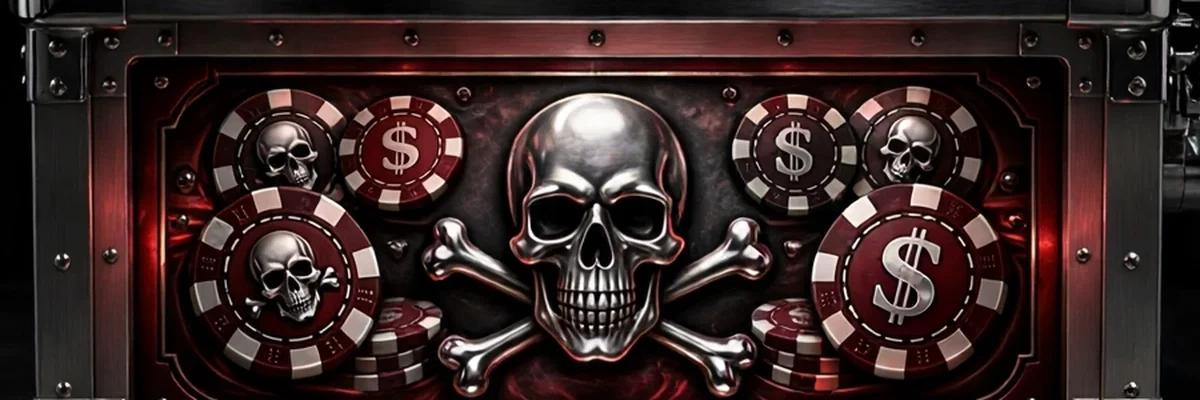
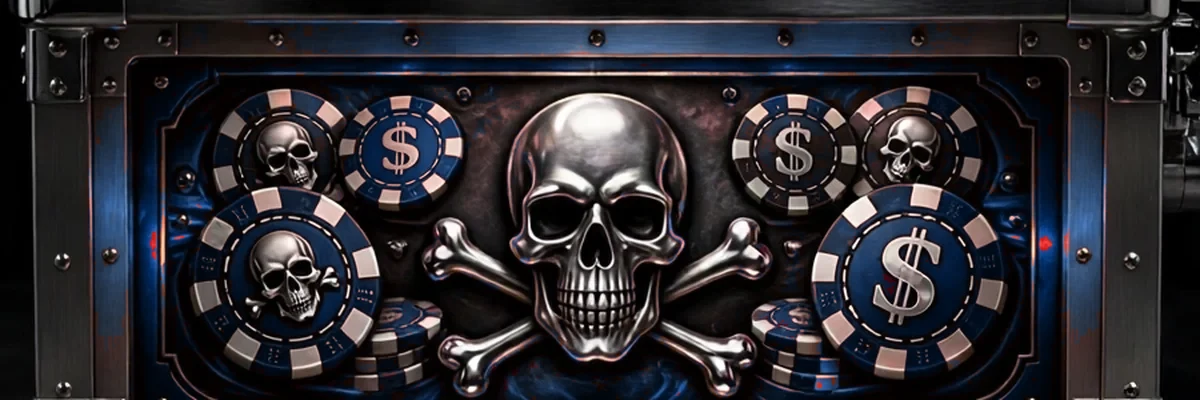
Poker Luxe: realism cabinet pass (NO GOLD — chrome SPIN ring, blue max-bet, blue chips in marquee+belly art, coin tray fully in frame) + SKULL VAULT face lift to pick board #2 (photoreal riveted-steel door wall cropped from the board itself, LED dot-matrix readout panel, board chip/skull compartment

diff --git a/test-bench/hustle-city-slots-luxe/style.css b/test-bench/hustle-city-slots-luxe/style.css
@@ -1,8 +1,8 @@
 /* Hustle City Slots — Poker Luxe · presentation (generated-art build).
    House look: chrome/silver + electric blue, blue room/cabinet treatment
    (Joshua's order 2026-11-21: blue background, not black — the screen pops
-   against it), with gold luxury accents for the poker-room theme and the
-   Bonus Wheel. (c) 2026 J-Dawgs Industries. */
+   against it). Cabinet #14 Riveted Steelworks: red accents, RED LED
+   readouts, NO GOLD anywhere (Joshua's law). (c) 2026 J-Dawgs Industries. */
 :root {
   --blue: #2e9bff;
   --blue-hot: #6fc2ff;
@@ -104,8 +104,8 @@ body {
   font-size: 13px;
   letter-spacing: .55em;
   text-indent: .55em;
-  color: var(--gold);
-  text-shadow: 0 0 9px rgba(232, 194, 104, .65);
+  color: var(--blue-hot);
+  text-shadow: 0 0 9px rgba(46, 155, 255, .65);
   line-height: 1;
 }
 .marquee-line1 {
@@ -231,7 +231,7 @@ body {
   content: "";
   position: absolute; inset: 0;
   border-radius: 4px;
-  box-shadow: inset 0 0 0 3px var(--gold), inset 0 0 26px rgba(232, 194, 104, .8), 0 0 20px rgba(232, 194, 104, .9);
+  box-shadow: inset 0 0 0 3px #ff3540, inset 0 0 26px rgba(255, 42, 51, .55), 0 0 20px rgba(255, 42, 51, .8);
   animation: winPulse .4s ease-in-out infinite alternate;
 }
 /* motion blur while a reel is at speed (class toggled by the spin physics) */
@@ -391,7 +391,7 @@ body {
   white-space: nowrap;
   overflow: hidden;
 }
-.maxbet-line b { color: var(--gold); }
+.maxbet-line b { color: var(--blue-hot); text-shadow: 0 0 8px rgba(46, 155, 255, .75), 0 1px 2px #000; }
 
 .controls {
   margin-top: 10px;
@@ -1127,7 +1127,8 @@ body {
 /* cabinet base — speaker grilles flanking the coin tray */
 .cab-base {
   margin-top: 10px;
-  height: 62px;
+  height: 88px; /* taller base strip (2026-11-21): the real coin tray reads
+    fully in frame instead of a cropped sliver */
   display: flex;
   gap: 8px;
 }
@@ -1160,7 +1161,7 @@ body {
   position: absolute; inset: 0;
   width: 100%; height: 100%;
   object-fit: cover;
-  object-position: 50% 62%;
+  object-position: 50% 58%;
   display: block;
 }
 .tray-shade {
@@ -1170,18 +1171,20 @@ body {
     linear-gradient(100deg, rgba(255, 255, 255, .10) 0%, rgba(255, 255, 255, 0) 42%);
   box-shadow: inset 0 0 24px rgba(0, 0, 0, .50);
 }
-@media (max-width: 400px) { .cab-base { height: 56px; } }
+@media (max-width: 400px) { .cab-base { height: 78px; } }
 
-/* Poker Luxe tint: gold bezel ring + warm belly glow */
-.spin-btn::before { border-color: #a8873f; border-top-color: #f0d48a; border-bottom-color: #5e4a17; }
+/* Poker Luxe tint: CHROME bezel ring + red belly glow (NO GOLD — the gold
+   ring around SPIN and the warm gold belly glow were killed 2026-11-21
+   23:22 CT on Joshua's screenshot verdict: "Same thing with this one") */
+.spin-btn::before { border-color: #79879a; border-top-color: #d7dee7; border-bottom-color: #333d4a; }
 .belly-frame {
   box-shadow:
     0 0 0 2px #05070a,
-    0 0 24px rgba(232, 194, 104, .22),
+    0 0 24px rgba(255, 42, 51, .22),
     0 5px 14px rgba(0, 0, 0, .72),
     inset 0 0 0 1px rgba(0, 0, 0, .85);
 }
-.belly-glowfx { box-shadow: inset 0 0 36px rgba(232, 194, 104, .20), inset 0 0 8px rgba(0, 0, 0, .45); }
+.belly-glowfx { box-shadow: inset 0 0 36px rgba(255, 42, 51, .20), inset 0 0 8px rgba(0, 0, 0, .45); }
 
 /* ---------- REALISM CABINET — UPPER (2026-11-21) ----------
    Joshua's standard, his words: "That's what I want is a realism cabinet on
@@ -1555,3 +1558,82 @@ body, button, input, select, textarea,
 }
 .vault-bank-btn:disabled { opacity: .42; box-shadow: none; cursor: default; }
 .vault-bank-btn:not(:disabled):active { transform: translateY(1px); }
+
+/* ---------- SKULL VAULT — BOARD #2 FACE LIFT (2026-11-21 23:23 CT) ----------
+   Joshua picked board #2 (the photoreal vault wall) and the shipped flat
+   CSS doors were NOT the pick: "That looks nothing like the skull vault I
+   picked. Make it look like the one you showed me." PICKED MEANS THE PICK:
+   the board's own art is now the vault's face — crops of the board itself
+   (assets/vault-door.webp closed door, vault-chips.webp lit compartment,
+   vault-skullroom.webp chrome skull compartment, vault-led.webp the red
+   dot-matrix strip, vault-wall.webp the dark steel wall). Mechanics,
+   prizes, readouts and flow are untouched — face lift only. */
+.bonus-card.vault-card {
+  background:
+    linear-gradient(172deg, rgba(14, 18, 25, .90) 0%, rgba(5, 7, 10, .95) 58%, rgba(3, 4, 6, .97) 100%),
+    url('assets/vault-wall.webp') center / cover no-repeat,
+    #05070a;
+  border: 2px solid #8b96a3;
+  box-shadow:
+    0 0 0 2px #05070a,
+    0 0 44px rgba(255, 30, 60, .30),
+    0 24px 60px rgba(0, 0, 0, .9),
+    inset 0 1px 0 rgba(255, 255, 255, .35),
+    inset 0 0 60px rgba(0, 0, 0, .55);
+}
+/* the readouts live in the board's red LED dot-matrix panel */
+.vault-readouts {
+  position: relative;
+  padding: 10px 10px 9px;
+  border-radius: 12px;
+  border: 1px solid #79838f;
+  background: #0a0508;
+  box-shadow:
+    inset 0 0 0 1px rgba(0, 0, 0, .85),
+    inset 0 0 24px rgba(255, 42, 51, .22),
+    0 2px 8px rgba(0, 0, 0, .6);
+  overflow: hidden;
+}
+.vault-readouts::before {
+  content: "";
+  position: absolute; inset: 0;
+  background: url('assets/vault-led.webp') center / cover no-repeat;
+  opacity: .45;
+  pointer-events: none;
+}
+.vault-readout { position: relative; z-index: 1; }
+.vault-readout label {
+  color: #f4dade;
+  text-shadow: 0 1px 2px #000, 0 0 8px rgba(255, 42, 51, .55);
+}
+.vault-led { background: linear-gradient(180deg, rgba(13, 5, 7, .94) 0%, rgba(22, 6, 10, .94) 55%, rgba(10, 4, 6, .94) 100%); }
+/* the wall: 3 x 4 board-true doors */
+.vault-grid { max-width: 336px; gap: 6px; }
+.vault-door {
+  aspect-ratio: 0.75;
+  border: 1px solid #1d2126;
+  border-radius: 7px;
+  background: #0a0c10;
+  box-shadow: 0 3px 9px rgba(0, 0, 0, .7), inset 0 0 0 1px rgba(0, 0, 0, .6);
+}
+.door-face {
+  background: url('assets/vault-door.webp') center / cover no-repeat #14171c;
+  box-shadow: inset 0 0 0 1px rgba(0, 0, 0, .55), inset 0 -10px 18px rgba(0, 0, 0, .35), inset 0 8px 14px rgba(255, 255, 255, .06);
+  transform-origin: right center; /* the board's doors hinge on the right */
+}
+.door-handle { display: none; } /* the spoked wheel is in the board art */
+.vault-door.open .door-face { transform: perspective(520px) rotateY(82deg); opacity: .94; }
+.door-prize {
+  background: url('assets/vault-chips.webp') center / cover no-repeat #04060a;
+  justify-content: flex-end;
+  padding-bottom: 7%;
+}
+.door-prize img { display: none; } /* the compartment art replaces the flat icons */
+.vault-door.skull .door-prize { background: #05070c url('assets/vault-skullroom.webp') center / cover no-repeat; }
+.door-prize-val {
+  font-size: 20px;
+  padding: 1px 9px 0;
+  border-radius: 999px;
+  background: rgba(2, 8, 18, .74);
+  box-shadow: 0 0 12px rgba(46, 155, 255, .45), inset 0 0 0 1px rgba(111, 194, 255, .5);
+}

diff --git a/test-bench/hustle-city-slots-luxe/sw.js b/test-bench/hustle-city-slots-luxe/sw.js
@@ -1,5 +1,5 @@
 /* Hustle City Slots — Poker Luxe service worker. (c) 2026 J-Dawgs Industries. */
-const CACHE = 'hc-slots-luxe-v10';
+const CACHE = 'hc-slots-luxe-v11';
 const ASSETS = [
   './', './index.html', './style.css', './game.js', './logic.js', './machines.js', './soundkit.js', './cabinet-life.js',
   './assets/sfx/bell.mp3', './assets/sfx/win-small.mp3', './assets/sfx/win-med.mp3',
@@ -18,7 +18,8 @@ const ASSETS = [
   './assets/sym-wd.webp', './assets/sym-sc.webp', './assets/sym-bn.webp', './assets/celeb-title.png', './assets/fonts/bebas-neue.woff2',
   './assets/sym-x2.webp', './assets/sym-x3.webp',
   './assets/deck-plate.webp', './assets/belly.webp', './assets/marquee-steel.webp', './assets/coin-tray.webp', './assets/celeb-bonus.mp4',
-  './assets/vault-skull.webp'
+  './assets/vault-skull.webp',
+  './assets/vault-door.webp', './assets/vault-chips.webp', './assets/vault-skullroom.webp', './assets/vault-led.webp', './assets/vault-wall.webp'
 ];
 self.addEventListener('install', e => {
   e.waitUntil(caches.open(CACHE).then(c => c.addAll(ASSETS)).then(() => self.skipWaiting()));
